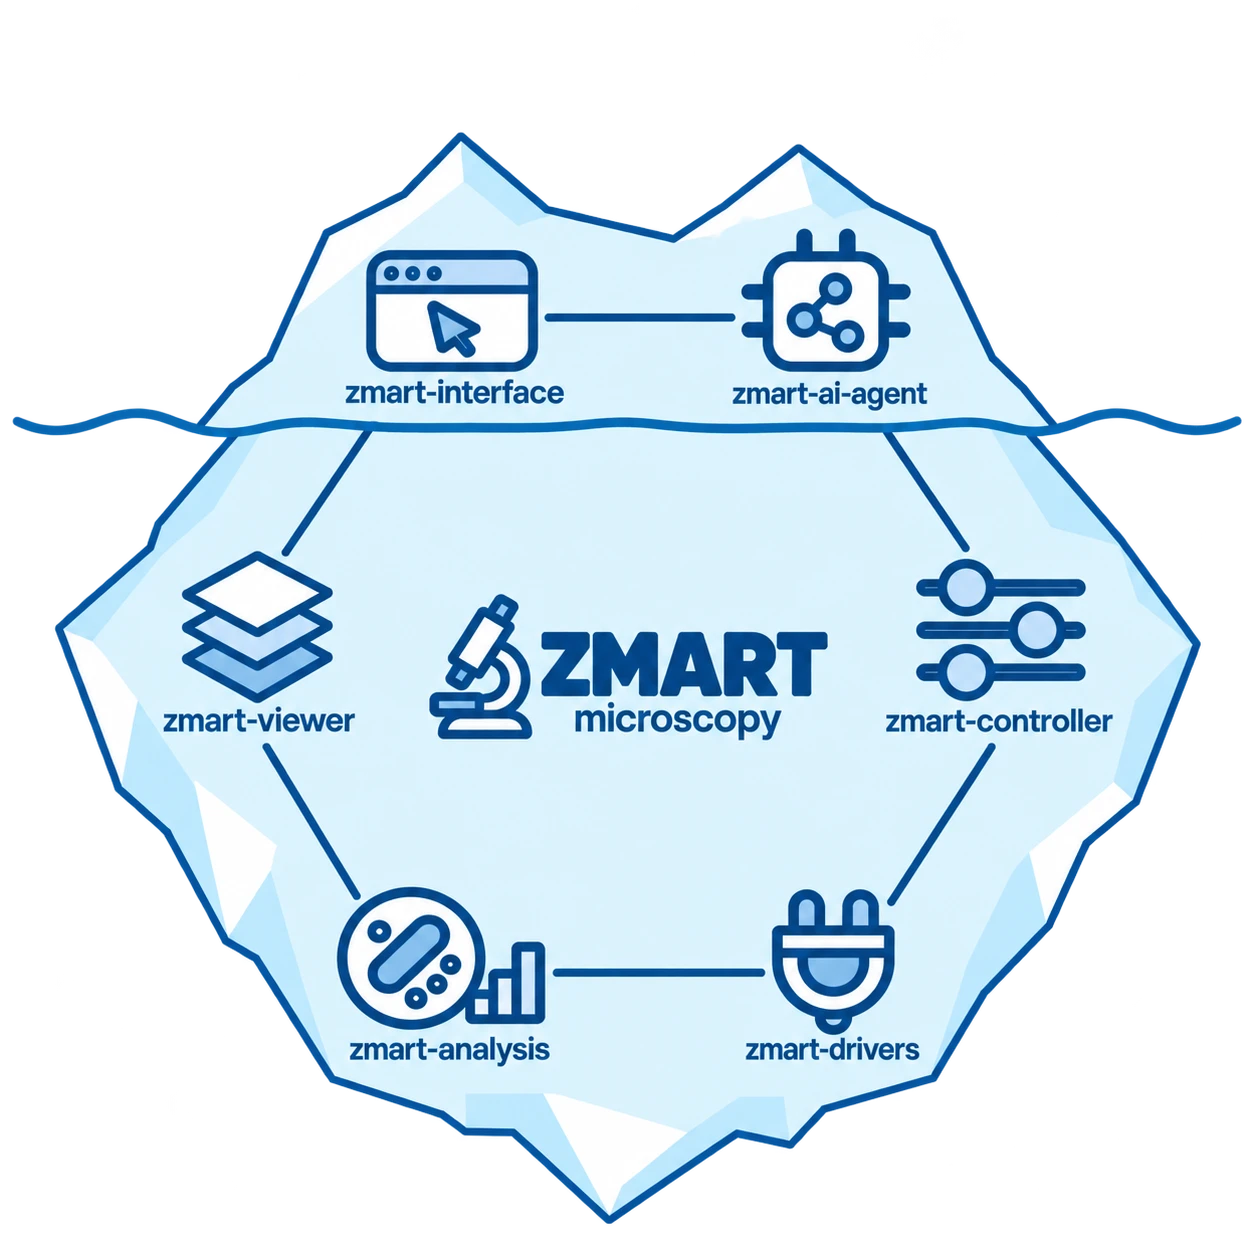
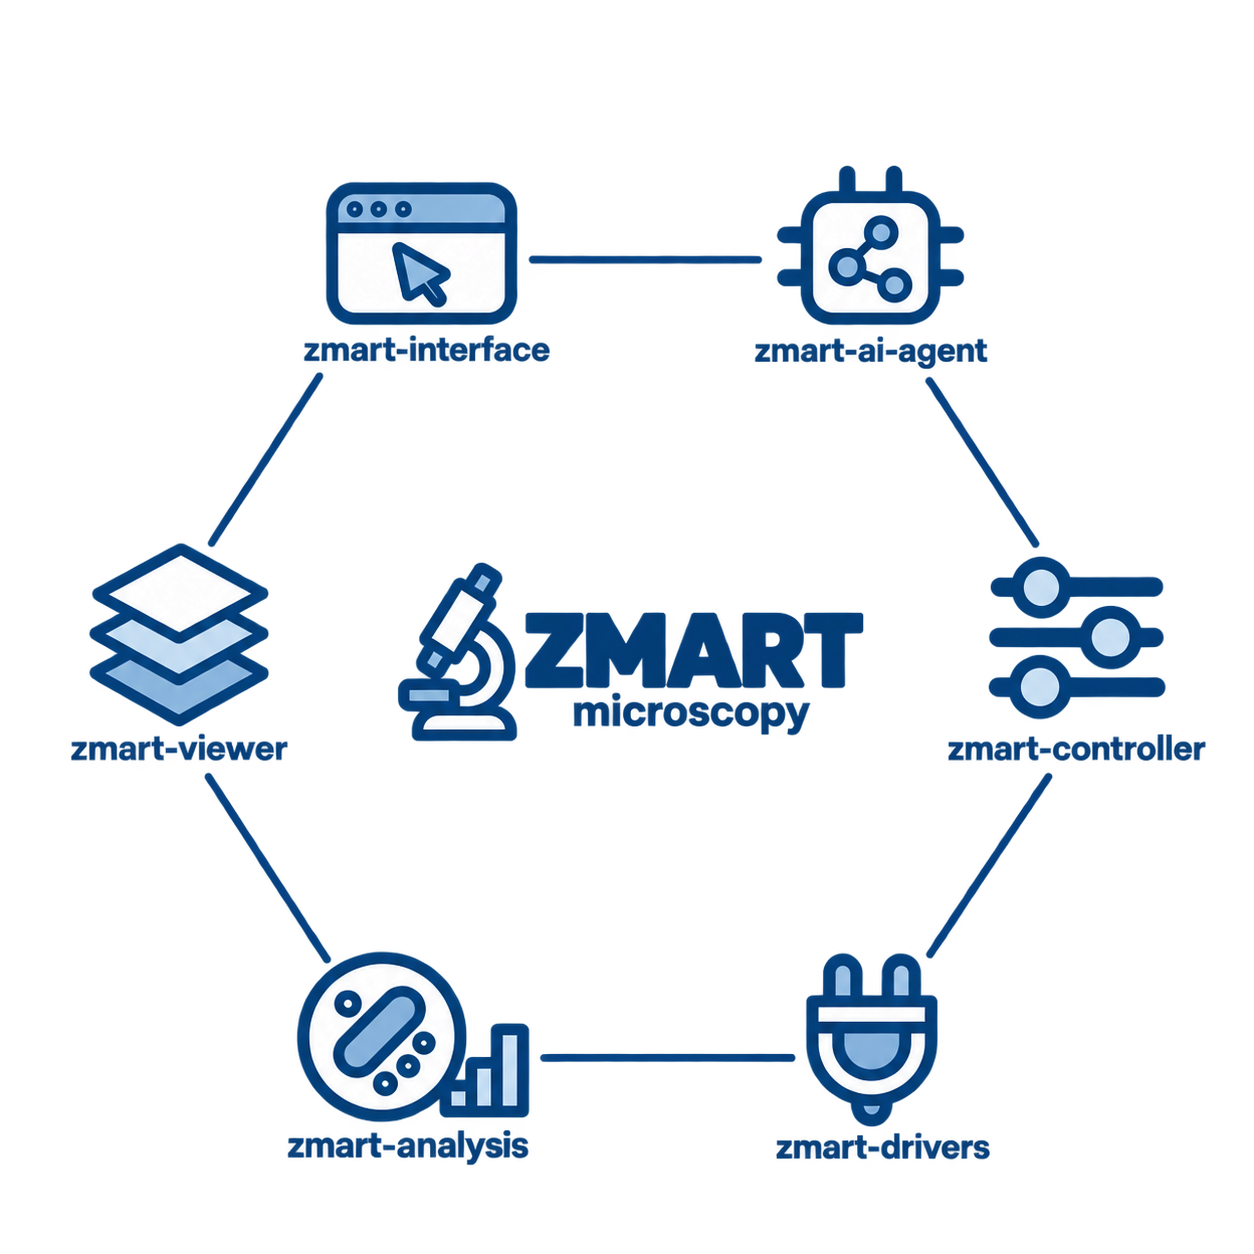
README: use the ring version of the overview picture

diff --git a/README.md b/README.md
@@ -10,7 +10,7 @@ Center for Microscopy and Image Analysis (ZMB), University of Zurich.
 <br/>
 
 <p align="center">
-  <img src="docs/zmart-overview.png" alt="The ZMART toolkit: zmart-interface and zmart-ai-agent above the waterline; zmart-viewer, zmart-controller, zmart-analysis and zmart-drivers below, around ZMART microscopy" width="60%">
+  <img src="docs/zmart-overview.png" alt="The ZMART toolkit: zmart-interface, zmart-ai-agent, zmart-controller, zmart-drivers, zmart-analysis and zmart-viewer in a ring around ZMART microscopy" width="60%">
 </p>
 
 <br/>
